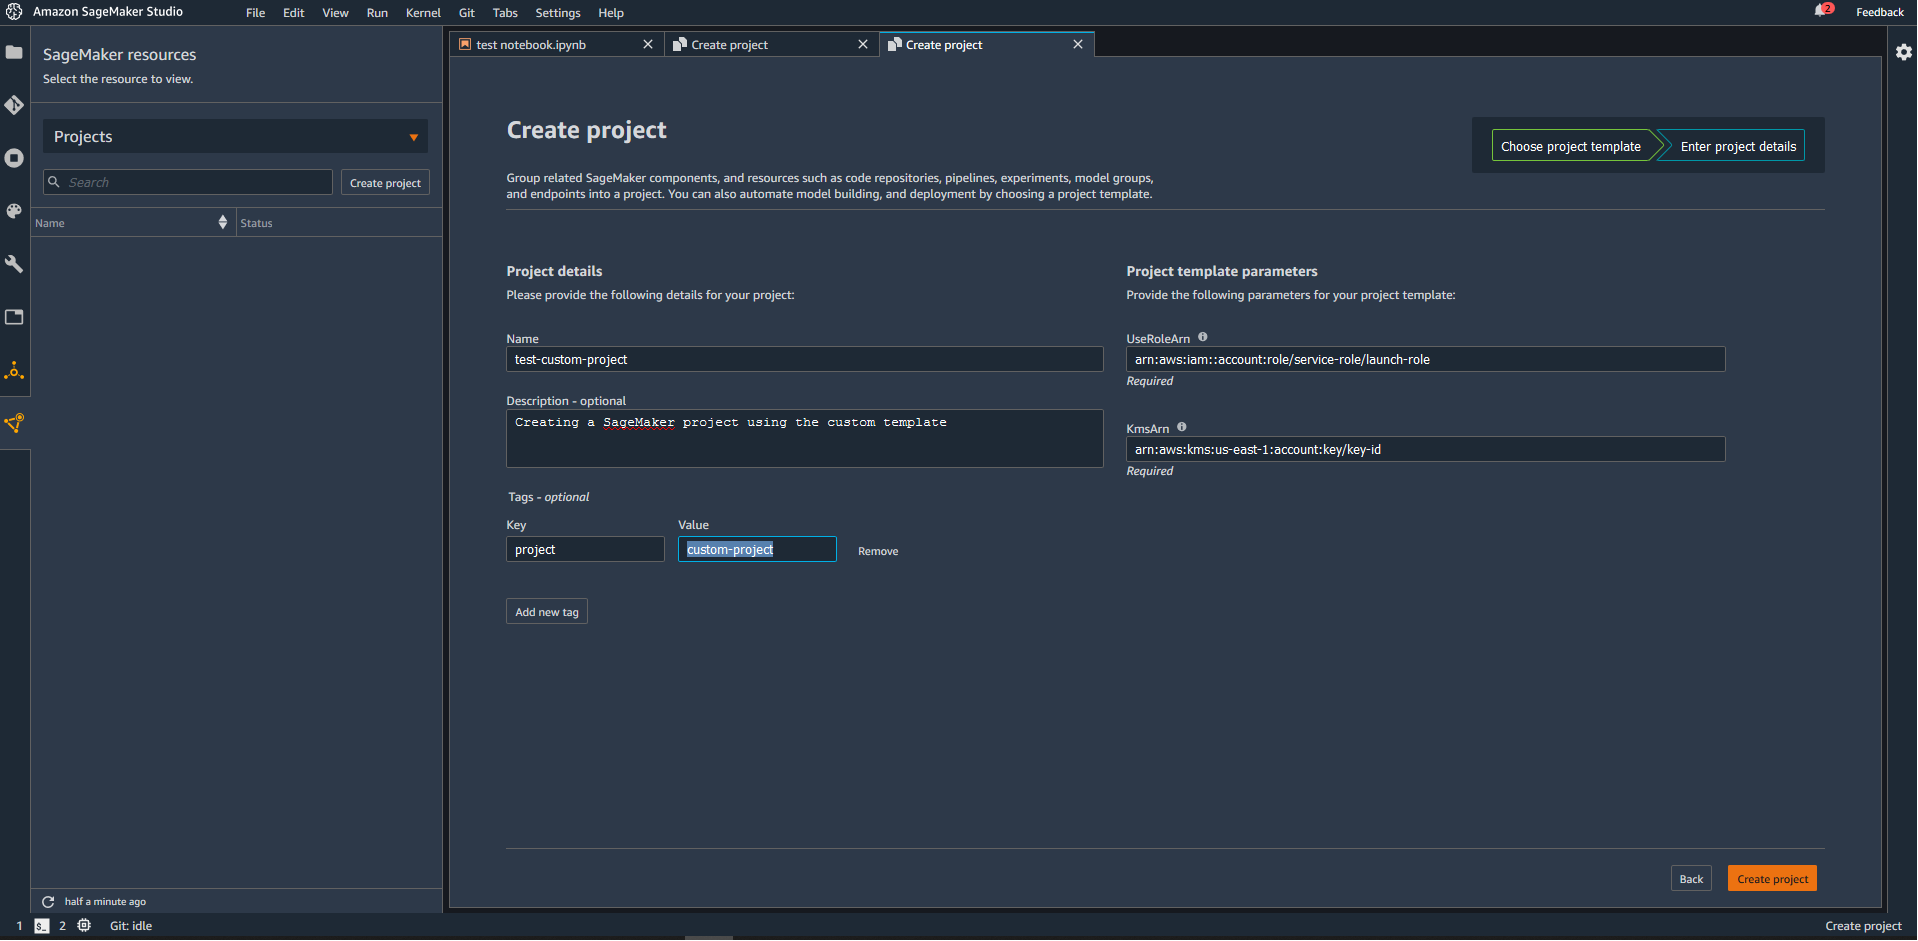
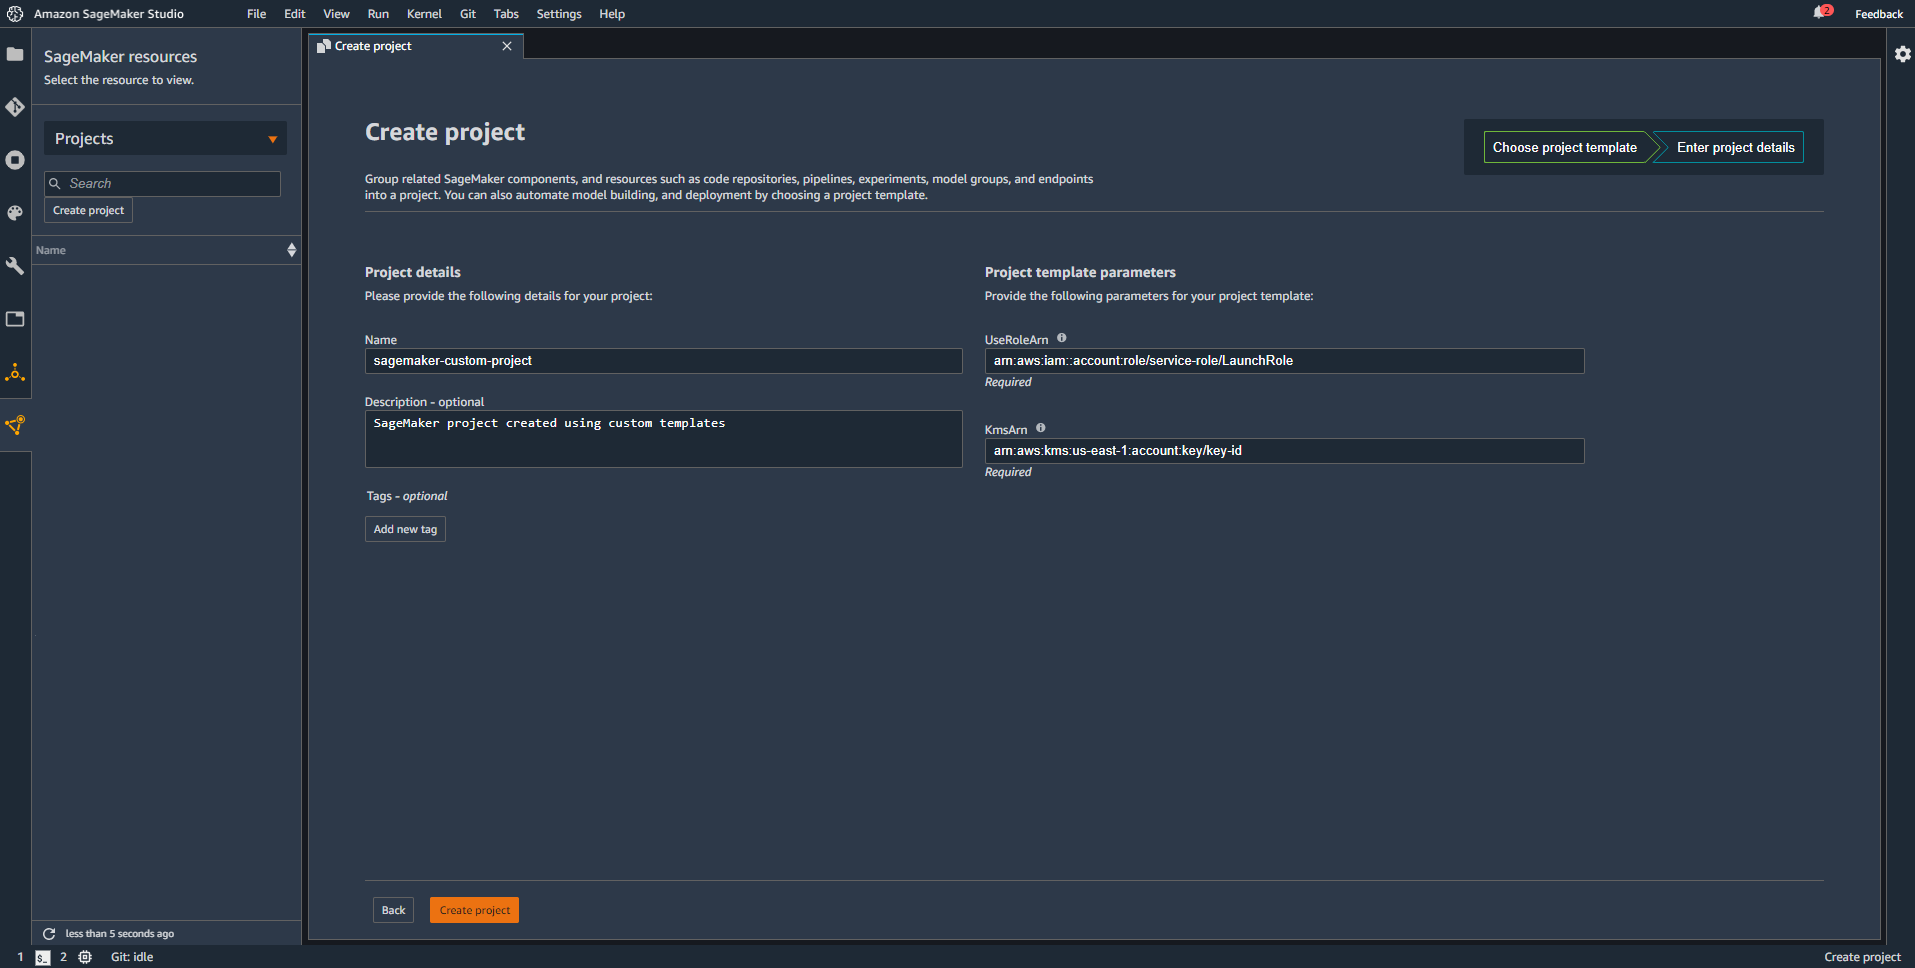
update policy json

diff --git a/encrypted-buckets/README.md b/encrypted-buckets/README.md
@@ -2,78 +2,19 @@
 
 The sample template `MLOps-template-example.yml` was created using the first-party MLOps template for model building, training and deployment. The template is updated to have security best practices, i.e., encryption and versioning for S3 buckets. The template also requires the user to provide a customer managed key on KMS for bucket encryption, and uses custom roles as launch constraints for deploying the template with least-privilege permissions.
 
+Refer to the repo's `README` file for general instructions. A high-level list is shown below. 
 
-## Adding the template to Studio
-### 1. Create a Service Catalog Portfolio
-* Open the AWS Service Catalog console at https://console.aws.amazon.com/servicecatalog/
-* If you are using the AWS Service Catalog administrator console for the first time, choose Launch solutions with the Getting Started library to start the wizard for configuring a portfolio. Otherwise, choose Create portfolio.
-* Type the following values:
-    * Portfolio name – SageMaker MLOps Templates
-    * Description – Custom project templates for MLOps
-    * Owner – IT (it@example.com)
-* Choose Create.
+## Creating custom template
+1. Create a Service Catalog Portfolio
+2. Create a Service Catalog Product using the attached `MLOps-template-example.yml` file.
+3. Add Launch Constraint
 
-### 2. Create a Service Catalog Product
-* Choose and open the portfolio created in the steps above. Next choose a product and then choose Upload new product.
-* On the Enter product details page, type the following and then choose Next:
-    * Product name – Custom build, train, deploy project
-    * Description – Bootstrapped templated for quick starting an MLOps workflow with security best practices
-    * Owner – IT
-    * Distributor – (blank)
-* On the Version details page, choose Specify an Amazon S3 template URL, type the following, and then choose Next:
-    * Select template – upload the template provided in this repo
-    * Version title – v1.0
-    * Description – Base Version
-* On the Enter support details page, type the following and then choose Next (this information will be organization specific):
-    * Email contact – ITSupport@example.com
-    * Support link – https://wiki.example.com/IT/support
-    * Support description – Contact the IT department for issues deploying or connecting to this product.
-* On the Review page, choose Create product
+    The sample uses two roles - one for launching the product (set as Launch constraint), and the second for use by services Policy statements for the launch and product use roles are provided in the `policies` folder.
+    - Create a customer managed KMS key at https://console.aws.amazon.com/kms
+    - Update the policy statements in `policies/` with the right ARNs before deploying (Line 7 in both policy statements).
+    - Create IAM policies and roles for both ServiceCatalogLaunch and ServiceCatalogUse roles.
 
-### 3. Add a Launch Constraint
-
-A launch constraint designates an IAM role that AWS Service Catalog assumes when an end user launches a product. This ensures that Service Catalog has the required permissions to provision the product (CloudFormation template). 
-The sample uses two roles - one for launching the product (set as Launch constraint), and the second for use by services Policy statements for the launch and product use roles are provided in the `policies` folder.
-
-__Note:__ The policies contain placeholders for account numbers and KMS key ARNs. Update the policy with the right ARNs before deploying.
-
-#### Create IAM roles
-- Open the IAM Console at https://console.aws.amazon.com/iam/
-- Navigate to 'Policies' and choose 'Create Policy'
-    - Choose the JSON tab and copy the sample policy
-    - Choose Next, Review policy, enter a suitable name and choose Create policy
-- To create the role, choose Roles from the navigation pane
-    - Choose AWS service as the Trusted entity and choose Service Catalog
-    - Choose the policy you just created, add a Role name and choose Create role.
-- Repeat the steps to create both the ServiceCatalogLaunch and ServiceCatalogUse roles.
-#### Add Launch constraint
-- Open Service Catalog console at https://console.aws.amazon.com/servicecatalog/
-    - Choose the portfolio you created in Step 1
-    - In the details page, choose Constraints tab
-    - Choose Create constraint, and choose the product from Step 2
-    - Choose 'Launch' as the constraint type, and choose the ServiceCatalogLaunch role you just created.
-    - Add an optional description and click Create.
-
-
-### 4. Making the product available in SageMaker Studio
-
-#### Add users/roles to the Portfolio.
-You can grant access to the Portfolio directly through the console, or add the `servicecatalog:ProvisionProduct` to the Studio's IAM role.
-
-To add access through the console,
-* On the portfolio details page, choose the Groups, roles, and users tab.
-* Choose Add groups, roles, users.
-* On the Roles tab, select the checkbox for SageMaker Studio execution role and choose Add access. Alternatively, you can use IAM groups or IAM Users through the Groups and Users tabs respectively.
-
-#### Tags
-To make your project template available in your Organization templates list in SageMaker Studio, create a tag with the following key and value to the AWS Service Catalog Product you created in step 2.
-
-* key - sagemaker:studio-visibility
-* value - true
-
-After you complete these steps, SageMaker Studio users in your organization can create a project with the template you created by following the steps in Create an MLOps Project using Amazon SageMaker Studio and choosing Organization templates when you choose a template.
-
-You can also add custom key-value tag pairs to restrict access to templates based on teams or users.
+4. Making the product available in SageMaker Studio by adding the role and tags.
 
 ## Creating the project
 - Open SageMaker Studio and sign in to your user profile.
@@ -82,7 +23,7 @@ You can also add custom key-value tag pairs to restrict access to templates base
 - The template you created will be displayed in the screen. (If you do not see it yet, make sure the execution role is added to the product and the sagemaker:studio-visibility tag is added exactly as described above).
 - Choose the template and click Select project template.
 ![sagemaker-project-screen](assets/create-project.png)
-- Enter a name and optional description for the project. Add the UseRoleArn (launch constraint role created in Step 3) and the KMS ARN. Optionally, add tags and choose Create project.
+- Enter a name and optional description for the project. The custom template requires that the project name start with 'sagemaker'. For example, add "sagemaker-custom-project" as the Project Name. Add the UseRoleArn (launch constraint role created in Step 3) and the KMS ARN. Optionally, add tags and choose Create project.
 ![sagemaker-project-template-parameters](assets/template-parameters.png)
 
 Your project is now created and loaded with sample seed code for training and deploying a model for the abalone dataset!
@@ -102,6 +43,7 @@ The SageMaker project creates the following AWS resources:
     - Test Staging endpoint
     - Manual approval step from Staging to Prod
 - EventBridge rules to trigger the pipelines
+
 In addition, the seed code provided creates the following set up within the Project:
 - Two repositories for model building and deployment
 - A fully executable SageMaker pipeline with code and a sample Jupyter notebook

diff --git a/README.md b/README.md
@@ -1,6 +1,6 @@
 # Custom Project Templates in SageMaker
 
-This repository contains an example SageMaker Project template. Each folder in this repo contains a custom project template with details on how what that template achieves and how to set it up. 
+This repository contains an example SageMaker Project template. Each folder in this repo contains a custom project template with details on how what that template achieves and how to set it up. The generic instructions are shown below.
 
 ## Adding the template to Studio
 ### 1. Create a Service Catalog Portfolio
@@ -36,11 +36,10 @@ A launch constraint designates an IAM role that AWS Service Catalog assumes when
 #### Create IAM roles
 - Open the IAM Console at https://console.aws.amazon.com/iam/
 - Navigate to 'Policies' and choose 'Create Policy'
-    - Create the policy required to launch this template (the examples in this repo may contain sample policies to use). Make sure to update the KMS Key ARN with a customer managed key in your account. If you do not need encryption, remove the KMS policy statement (Line 7, `policies/IAM Policy - ServiceCatalogLaunch.json`), or replace the resoure ARN with "*" to allow access to all keys. 
+    - Create the policy required to launch this template (the examples in this repo may contain sample policies to use).
     - Choose Next, Review policy, enter a suitable name and choose Create policy
 - To create the role, choose Roles from the navigation pane
     - Choose AWS service as the Trusted entity and choose "Service Catalog"
-    - Choose the policy you just created, add a Role name and choose Create role.
 - Repeat the steps to create both the ServiceCatalogLaunch and ServiceCatalogUse roles.
 #### Add Launch constraint
 - Open Service Catalog console at https://console.aws.amazon.com/servicecatalog/
@@ -71,7 +70,7 @@ After you complete these steps, SageMaker Studio users in your organization can 
 
 You can also add custom key-value tag pairs to restrict access to templates based on teams or users.
 
-_Note: Ensure that the tag is added to the Product, not the Portfolio._
+_Note: If you don't see the template under Organizational Templates, ensure that the tag is added as-is to the Product, and not the Portfolio._
 
 ## Creating the project
 - Open SageMaker Studio and sign in to your user profile.
@@ -79,13 +78,6 @@ _Note: Ensure that the tag is added to the Product, not the Portfolio._
 - Switch to the Organization templates tab. The default view displays SageMaker templates.
 - The template you created will be displayed in the screen. (If you do not see it yet, make sure the execution role is added to the product and the sagemaker:studio-visibility tag is added exactly as described above).
 - Choose the template and click Select project template.
-![sagemaker-project-screen](assets/create-project.png)
-- Enter a name and optional description for the project. Add the UseRoleArn (launch constraint role created in Step 3) and the KMS ARN. Optionally, add tags and choose Create project.
-![sagemaker-project-template-parameters](assets/template-parameters.png)
+- Enter a name and optional description for the project. If additional parameters or tags are required, enter the appropriate values, and choose Create project.
 
-Your project is now created and loaded with sample seed code for training and deploying a model for the abalone dataset!
-
-## License
-
-This library is licensed under the MIT-0 License. See the LICENSE file. 
-
+You have now successfully created an MLOps template and a SageMaker Project using the custom template. Refer to `encrypted-buckets` for a sample implementation. 
